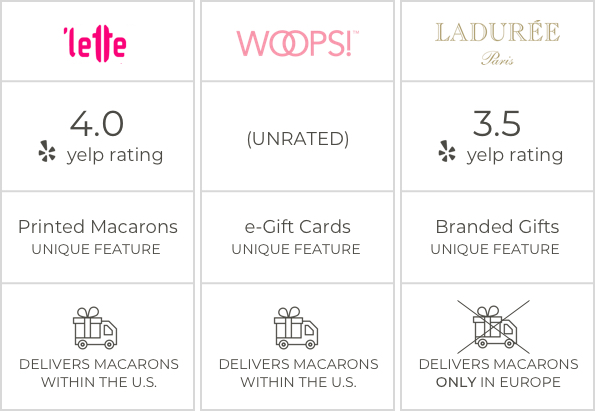
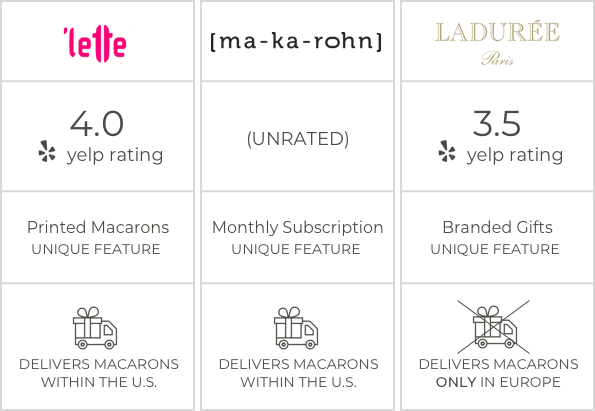
lette update

diff --git a/'lette-case-study.html b/'lette-case-study.html
@@ -314,9 +314,10 @@
     <div class="row">
         <div class="col s12 m2 l2">
             <h5>LANDING PAGE & LAYOUT COMPARISON</h5>
-            <p>'Lette's landing page immediately stands out compared to its competitors due to its unconventional navigation and layout. <!--Where its competitors have primary navigations
-              located at the top of the page and truncated to reduce information density, -->Their navigation is on located on the upper left hand corner and is cluttered with in-line
-              French translations and competing elements that make it difficult for a user to follow the flow of the page.
+            <p>'Lette's landing page immediately stands out compared to its competitors due to its unconventional navigation and layout: <!--Where its competitors have primary navigations
+              located at the top of the page and truncated to reduce information density, -->Their (1) Primary Navigation is cluttered with in-line French translations and is located on the 
+              left of the page, competing with both the (2) Secondary Navigation located at the top of the page and the off-center (3) Body Text. <b>Together, these elements make 'Lette's
+              landing page disorienting to users through the lack of a clear visual hierarchy<!-- that follows natural eye movement patterns--></b>.
             </p>
         </div>
     </div>
@@ -325,7 +326,7 @@
     
     <div class="row">
       <div class="col s12 m12 l6 text-center">
-        <img src="static/img/lette-current-landing.jpg" class="img-fluid" title="" alt="">
+        <img src="static/img/lette-current-landing.jpg" class="img-fluid" title="" alt="lette landing page">
         <h6>'LETTE'S LANDING PAGE</h6>
       </div>
     </div>
@@ -334,12 +335,12 @@
 
     <div class="row">
       <div class="col s12 m12 l6 text-center">
-        <img src="static/img/lette-woops-landing.jpg" class="img-fluid" title="" alt="">
-        <h6>WOOPS'! LANDING PAGE</h6>
+        <img src="static/img/lette-makarohn-landing.jpg" class="img-fluid" title="" alt="ma-ka-rohn landing page">
+        <h6>MA-KA-ROHN'S LANDING PAGE</h6>
       </div>
 
       <div class="col s12 m12 l6 text-center">
-        <img src="static/img/lette-laduree-landing.jpg" class="img-fluid" title="" alt="">
+        <img src="static/img/lette-laduree-landing.jpg" class="img-fluid" title="" alt="laduree landing page">
         <h6>LADUREE'S LANDING PAGE</h6>
       </div>
     </div>
@@ -349,23 +350,53 @@
     <br>
     <!-- End Landing Page & Layout Comparison -->
   
-  <!-- Online Orders Comparison
-    <div class="row">
-        <div class="col s12 m2 l2">
-            <h5>ONLINE ORDERS COMPARISON</h5>
-            <p>.</p>
-        </div>
-    </div>
-    
-    <br>
-    
-    <div class="col s12 m12 l6">
-      <img src="static/img/lette-cc-analysis.jpg" class="img-fluid" title="" alt="">
-    </div>
+  <!-- Online Orders Comparison -->
+      <div class="row">
+          <div class="col s12 m2 l2">
+              <h5>ONLINE ORDERS COMPARISON</h5>
 
-    <br>
-    <br>
-    <br> -->
+                  <div class="row">
+                    <div class="col s12 m12 l6 text-center">
+                       <img src="static/img/lette-baymard-checkout.jpg" class="img-fluid" title="" alt="">
+                    </div>
+                  </div>
+    
+        <br>
+
+              <p>The Baymard Institute has found that on average, <b>online shopping carts are abandoned at a rate of 69.89%</b>. Among the reasons, the need to create an account (which I later
+                address) and a "too long/complicated checkout process" are top reasons users cite for this behavior.  This is <b>problematic for 'Lette as their process from landing
+                page to checkout includes a lengthy and again, unconventional, selection process</b> (demonstrated below). (Imagine a bulk order!)
+              </p>
+          </div>
+      </div>
+      
+      <br>
+        
+      <div class="row">
+        <div class="col s12 m12 l6 text-center">
+          <img src="static/img/lette-online-order.gif" class="img-fluid" title="" alt="">
+          <h6>'LETTE'S DRAG & DROP ORDERING PROCESS</h6>
+        </div>
+      </div>
+  
+      <br>
+  
+      <!--<div class="row">
+        <div class="col s12 m12 l6 text-center">
+          <img src="static/img/lette-makarohn-landing.jpg" class="img-fluid" title="" alt="">
+          <h6>MA-KA-ROHN'S LANDING PAGE</h6>
+        </div>
+  
+        <div class="col s12 m12 l6 text-center">
+          <img src="static/img/lette-laduree-landing.jpg" class="img-fluid" title="" alt="">
+          <h6>LADUREE'S LANDING PAGE</h6>
+        </div>
+      </div>
+  
+      <br>
+      <br>
+      <br>-->
+  <!-- End Online Orders Comparison -->
 
   </div><!-- container -->
     
